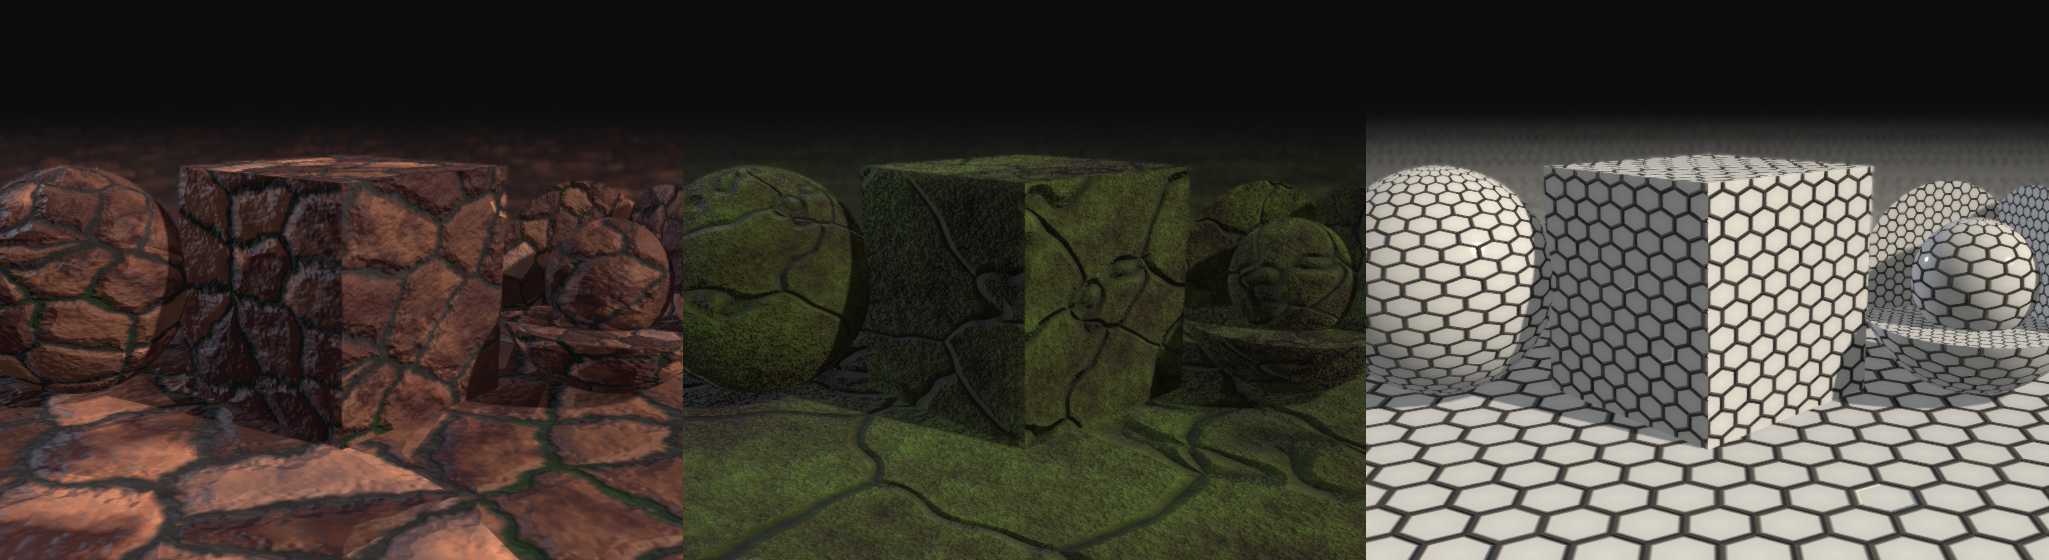
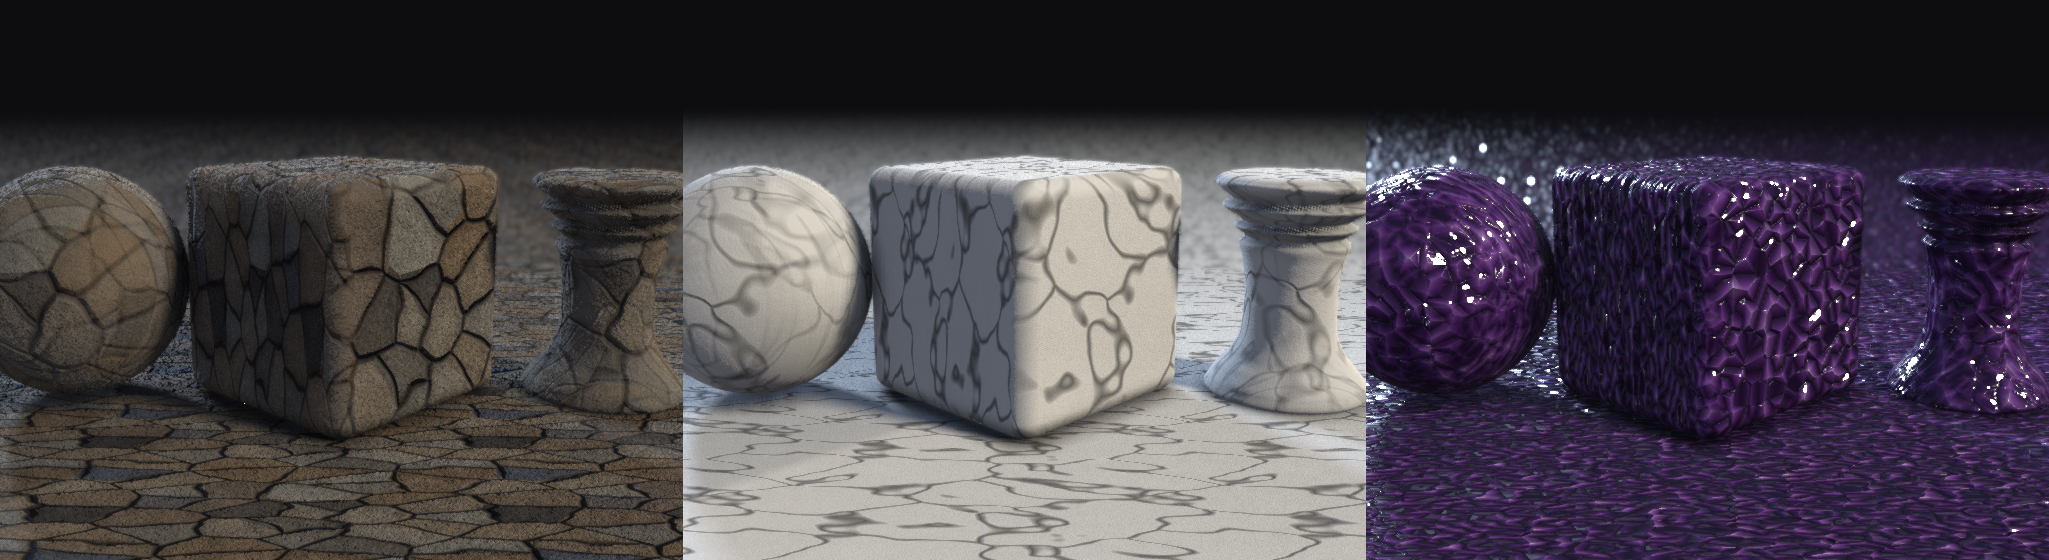
docs(showcase): recurate front-page gallery to 8 strong materials + GIF strip
Swaps the front-page gallery to a curated, higher-contrast set rendered on the
new rig (rounded cube + lathed rook): cobblestone, ashlar wall, marble, raw
crystal, hazard stripe, herringbone tweed, cracked ice, riverbed pebbles.
Adds an 'In motion' strip of 5 light-sweep GIFs. Bakes per-material tile
overrides into quality/_make_showcase (_TILE_OVERRIDES) so each material renders
at a readable physical scale, and shrinks the GIFs (448px/14f, shared 128-colour
palette + optimize) to ~0.7-0.9MB each. Also fixes a Windows temp-cleanup crash
in cmd_gif from an unclosed GIF handle. Hero regenerated (cobblestone/marble/
crystal). Old gallery PNGs removed.

diff --git a/quality/_make_showcase.py b/quality/_make_showcase.py
@@ -31,6 +31,25 @@ _ROOT = Path(__file__).resolve().parent.parent
 _GALLERY_DIR = _ROOT / "docs" / "images" / "gallery"
 _HERO_PATH = _ROOT / "docs" / "images" / "hero.png"
 
+# Per-material triplanar tile scale for the showcase rig. Materials bake in
+# different feature sizes, so one global tile can't fit all -- fine patterns
+# (herringbone, ashlar) need a lower value (bigger physical cells) to read at
+# the rig's scale. Anything not listed uses the render_preview default (0.45).
+_TILE_OVERRIDES = {
+    "s07_cobblestone": 0.40,
+    "s09_ashlar_wall": 0.32,
+    "s11_marble": 0.40,
+    "gl04_raw_crystal_cluster": 0.40,
+    "sf02_hazard_stripe_panel": 0.32,
+    "f07_herringbone_tweed": 0.24,
+    "t05_cracked_ice": 0.40,
+    "t08_riverbed_pebbles": 0.40,
+}
+
+
+def _tile_for(basename: str) -> float:
+    return _TILE_OVERRIDES.get(basename, 0.45)
+
 STILL_SIZE = (1024, 576)
 
 
@@ -116,7 +135,8 @@ def _render_still(ident: str):
         normal = next(p for p in render_result.images if p.endswith("_normal.png"))
         orm = next(p for p in render_result.images if p.endswith("_orm.png"))
 
-        preview_result = render_preview(albedo, normal, orm, outdir=outdir, basename=basename, cfg=cfg)
+        preview_result = render_preview(albedo, normal, orm, outdir=outdir,
+                                         basename=basename, tile=_tile_for(basename), cfg=cfg)
         if not preview_result.ok:
             raise RuntimeError(f"preview render failed for '{ident}': {preview_result.error}")
 
@@ -174,29 +194,41 @@ def cmd_gif(ident: str, width: int, frames: int, duration: int) -> int:
 
         sweep_result = render_preview_sweep(
             albedo, normal, orm, outdir=outdir, basename=basename,
+            tile=_tile_for(basename),
             frames=frames, frame_duration_ms=duration, cfg=cfg,
         )
         if not sweep_result.ok:
             raise RuntimeError(f"preview sweep failed for '{ident}': {sweep_result.error}")
 
         # The sweep GIF is already assembled; re-extract, downscale, reassemble.
-        gif_im = Image.open(sweep_result.image)
+        # Close the source handle before the temp dir is cleaned up, or Windows
+        # refuses to delete the still-open file (WinError 32).
         raw_frame_dir = Path(tmpdir) / "raw_frames"
         raw_frame_dir.mkdir()
         frame_paths = []
-        for i in range(sweep_result.frame_count):
-            gif_im.seek(i)
-            fp = raw_frame_dir / f"frame_{i:03d}.png"
-            gif_im.convert("RGB").save(fp)
-            frame_paths.append(fp)
+        with Image.open(sweep_result.image) as gif_im:
+            for i in range(sweep_result.frame_count):
+                gif_im.seek(i)
+                fp = raw_frame_dir / f"frame_{i:03d}.png"
+                gif_im.convert("RGB").save(fp)
+                frame_paths.append(fp)
 
         scaled = downscale_gif_frames(frame_paths, width=width)
+
+        # Quantize every frame to one shared adaptive 128-colour palette, then
+        # save with optimize=True. A shared palette keeps inter-frame diffs
+        # small (the light moves, most pixels are unchanged) and 128 colours is
+        # plenty for these mostly-monochrome relief sweeps -- together this
+        # roughly halves the file vs a full 256-colour per-frame GIF.
+        pal = scaled[0].quantize(colors=128, method=Image.MEDIANCUT)
+        quant = [f.quantize(colors=128, palette=pal, dither=Image.FLOYDSTEINBERG)
+                 for f in scaled]
 
         stem = Path(ident).stem
         out_path = _GALLERY_DIR / f"{stem}.gif"
         out_path.parent.mkdir(parents=True, exist_ok=True)
-        scaled[0].save(out_path, save_all=True, append_images=scaled[1:],
-                        duration=duration, loop=0)
+        quant[0].save(out_path, save_all=True, append_images=quant[1:],
+                      duration=duration, loop=0, optimize=True)
 
     size_bytes = out_path.stat().st_size
     print(f"{ident}: {out_path} ({size_bytes} bytes)")

diff --git a/README.md b/README.md
@@ -3,7 +3,7 @@
 > Part of [gProdDevKit](https://kit.graysonchalmers.com), Grayson Chalmers' game production / dev kit.
 
 <p align="center">
-  <img src="docs/images/hero.png" alt="Cobblestone, moss, and ceramic-tile materials authored by the server and rendered in 3D" width="100%">
+  <img src="docs/images/hero.png" alt="Cobblestone, marble, and raw-crystal materials authored by the server and rendered in 3D" width="100%">
 </p>
 
 An [MCP](https://modelcontextprotocol.io) server that lets an AI assistant
@@ -48,22 +48,31 @@ Why this project exists and what it's actually optimizing for is in
 
 ## Gallery
 
-Each material below was authored by the server from the one-line prompt beside
-it, then its rendered maps were composited onto a sphere, a cube, and a cutaway
-ball on a lit ground plane, so the normal-map relief reads under real lighting
-instead of as a flat swatch. The bottom-right one is a round-trip example: the
-server drafted the graph, then I finished it by hand in Material Maker. Full
-graphs live in the cookbook below (`s02_gray_granite`, `f01_woven_denim`,
-`man02_ceramic_hex_tiles`, `m02_brushed_aluminum`, `o01_mossy_forest_floor`,
-`o03_tree_bark`, `w05_dark_walnut`); the hand-finished one is
-[`saved_graphs/bricks_grayson_edit.ptex`](saved_graphs/bricks_grayson_edit.ptex).
+Each material below was authored by the server, then its rendered maps were
+composited onto a sphere, a rounded-bevel cube, and a lathed chess rook on a
+lit ground plane, so the normal-map relief reads under real lighting instead of
+as a flat swatch. Full graphs live in the cookbook below (`s07_cobblestone`,
+`s09_ashlar_wall`, `s11_marble`, `gl04_raw_crystal_cluster`,
+`sf02_hazard_stripe_panel`, `f07_herringbone_tweed`, `t05_cracked_ice`,
+`t08_riverbed_pebbles`).
 
 | | |
 |:--:|:--:|
-| ![polished gray granite](docs/images/gallery/s02_gray_granite.png) | ![blue denim fabric](docs/images/gallery/f01_woven_denim.png) |
-| ![tree bark](docs/images/gallery/o03_tree_bark.png) | ![dark walnut wood](docs/images/gallery/w05_dark_walnut.png) |
-| ![white ceramic hexagon tiles](docs/images/gallery/man02_ceramic_hex_tiles.png) | ![brushed aluminum](docs/images/gallery/m02_brushed_aluminum.png) |
-| ![mossy forest floor](docs/images/gallery/o01_mossy_forest_floor.png) | ![mossy cobblestone, hand-finished in Material Maker](docs/images/gallery/bricks_grayson_edit.png) |
+| ![irregular cobblestone](docs/images/gallery/s07_cobblestone.png) | ![coursed ashlar stone wall](docs/images/gallery/s09_ashlar_wall.png) |
+| ![veined marble](docs/images/gallery/s11_marble.png) | ![raw purple crystal cluster](docs/images/gallery/gl04_raw_crystal_cluster.png) |
+| ![yellow and black hazard stripe panel](docs/images/gallery/sf02_hazard_stripe_panel.png) | ![herringbone tweed fabric](docs/images/gallery/f07_herringbone_tweed.png) |
+| ![cracked ice](docs/images/gallery/t05_cracked_ice.png) | ![riverbed pebbles](docs/images/gallery/t08_riverbed_pebbles.png) |
+
+### In motion
+
+The static frame hides how relief plays with light. These sweep the key light
+across five materials so the normal-map depth reads as it moves.
+
+| | |
+|:--:|:--:|
+| ![cobblestone under a moving light](docs/images/gallery/s07_cobblestone.gif) | ![raw crystal under a moving light](docs/images/gallery/gl04_raw_crystal_cluster.gif) |
+| ![cracked ice under a moving light](docs/images/gallery/t05_cracked_ice.gif) | ![hazard stripe panel under a moving light](docs/images/gallery/sf02_hazard_stripe_panel.gif) |
+| ![ashlar wall under a moving light](docs/images/gallery/s09_ashlar_wall.gif) | |
 
 ## Material cookbook
 
